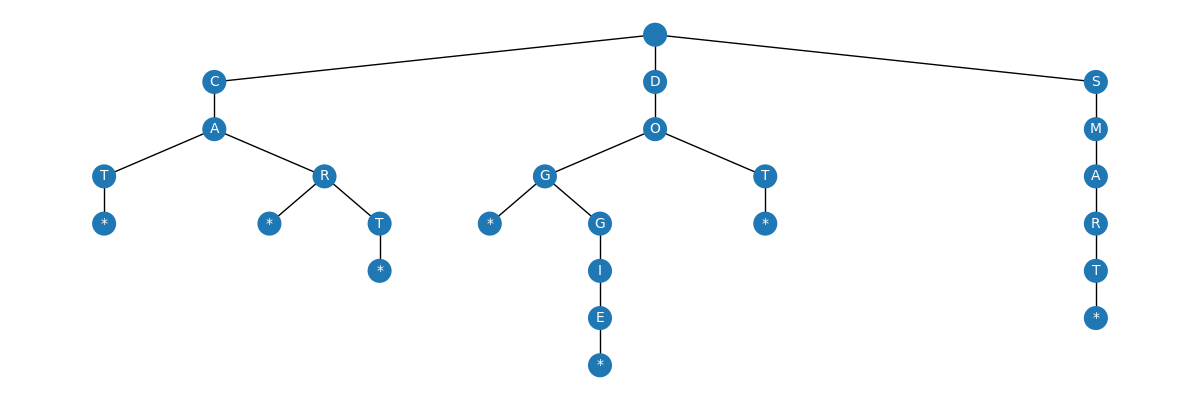
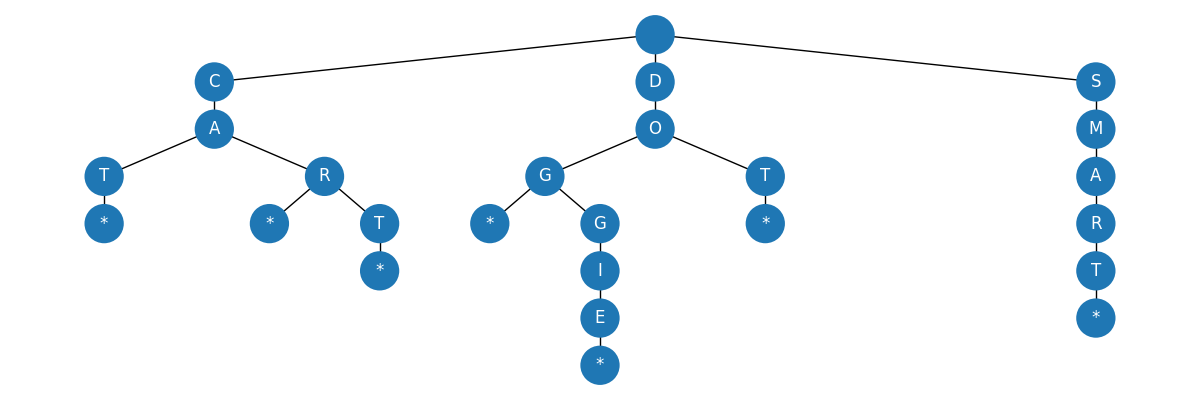
updated Trie and TrieDraw

diff --git a/src/dsa/draw.py b/src/dsa/draw.py
@@ -307,35 +307,6 @@ class TrieDraw(Draw):
     
         return _hierarchical_pos(G, root, width, vert_gap, vert_loc, xcenter)
     
-    def render_rectangle(self, **kwargs):
-        """
-        Renders the Trie as a hierarchical graph using Matplotlib. Not to be called directly. Call draw() instead.
-
-        This method uses the hierarchical positions of the nodes to render the Trie
-        as a directed graph. Nodes are drawn as rectangles, and edges represent the transitions
-        between prefixes.
-
-        Returns:
-            matplotlib.pyplot: The Matplotlib plot object for further customization or display.
-        """
-        super().render(**kwargs)
-        trie_graph = self.to_networkx()
-        
-        pos = self.hierarchical_pos(trie_graph)
-        
-        plt.figure(figsize=self.figsize)
-        nx.draw_networkx_edges(trie_graph, pos, arrows=True)
-        
-        ax = plt.gca()
-        rect_width = 0.05
-        rect_height = 0.15
-        for node in pos:
-            x, y = pos[node]
-            rectangle = plt.Rectangle((x - (rect_width / 2), y - (rect_height / 2)), rect_width, rect_height, color="tab:blue")
-            ax.add_patch(rectangle)
-            plt.text(x, y, node[-1] if node else "", verticalalignment='center', horizontalalignment='center', fontsize=12, color="white")
-        return plt
-
     def render(self, **kwargs):
         """
         Renders the Trie as a hierarchical graph using Matplotlib. Not to be called directly. Call draw() instead.
@@ -356,8 +327,9 @@ class TrieDraw(Draw):
             labels={node: node[-1] if node else "" for node in trie_graph.nodes},
             node_shape='o',
             node_color='tab:blue',
+            node_size=800,
             font_color='white',
-            font_size=10,
+            font_size=12,
             edgecolors='none',
             arrows=False,
             **kwargs

diff --git a/src/dsa/__init__.py b/src/dsa/__init__.py
@@ -1,7 +1,7 @@
 '''
 dsa package for UC Berkeley Extension's Computer Science X404.1 Data Structures and Algorithms class
 
-Last Revision: 6/28/2026
+Last Revision: 7/1/2026
 '''
-version = '2026.06.28'
+version = '2026.07.01'
 __version__ = version

diff --git a/README.md b/README.md
@@ -39,6 +39,10 @@ pip show ucxdsa
 
 ***
 # Revision History
+* Removed preorder_delete() from Trie
+* Increase the size of nodes in TrieDraw
+* Removed render_rectangle() from TrieDraw
+  
 ## 2026.06.28
 * Updated the implementation of Trie delete: returns True if word was successfully deleted
 